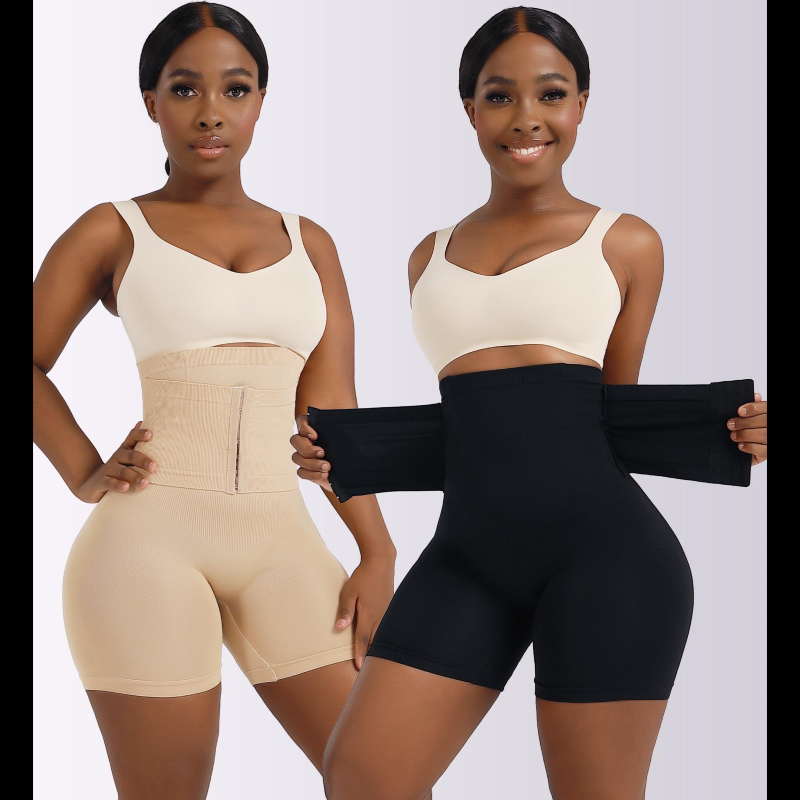
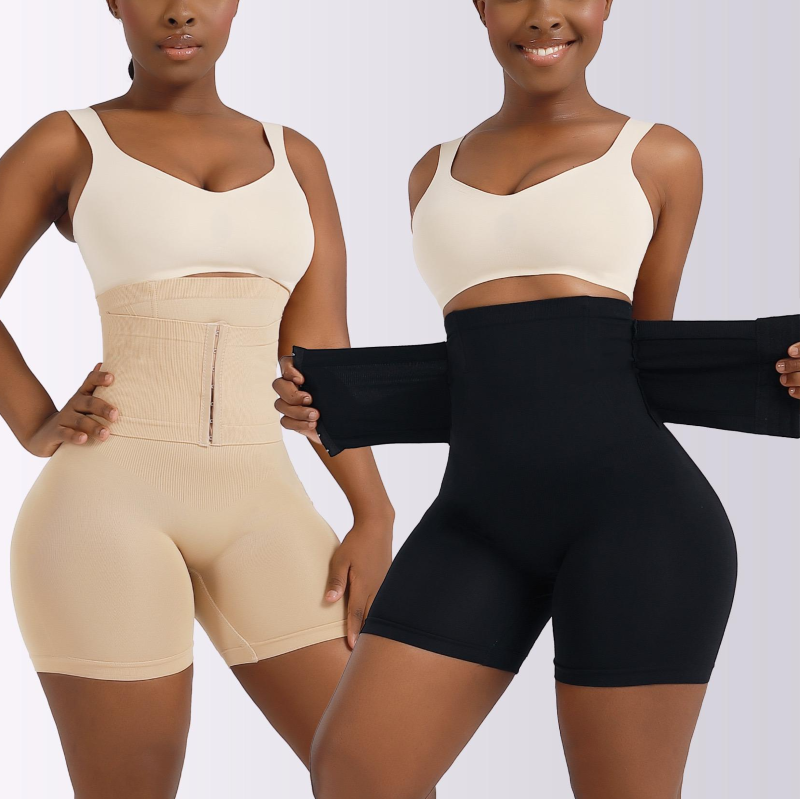
Refactor code structure for improved readability and maintainability
updated pictures for product details

diff --git a/assets/js/products.js b/assets/js/products.js
@@ -4,7 +4,7 @@ const products = [
     name: "silicon Bra",
     price: 6500.0,
     description: "Strapless bra for your comfort and confidence",
-    images: ["/assets/img/silicon_bra.webp"],
+    images: ["/assets/img/silicon_bra.webp", "/assets/img/silicon_bra_2.jpg"],
     colors: ["black"],
     sizeLimits: { min: 6, max: 16 },
     category: "bra",
@@ -66,10 +66,10 @@ const products = [
     price: 25000.0,
     description: "Lorem ipsum var deux vox machina.",
     images: [
-      "/assets/img/full_gym_wear_1.jpg",
-      "/assets/img/full_gym_wear_2.jpg",
+      "/assets/img/full_gym_wear_1.webp",
+      "/assets/img/full_gym_wear_2.webp",
       "/assets/img/full_gym_wear_3.jpg",
-      "/assets/img/full_gym_wear_4.jpg",
+      "/assets/img/full_gym_wear_4.webp",
     ],
     colors: ["black", "pink", "green", "blue"],
     sizeLimits: { min: 6, max: 18 },
@@ -141,7 +141,7 @@ const products = [
       "/assets/img/3_pcs_mesh_nightgown_2.jpg",
       "/assets/img/3_pcs_mesh_nightgown_4.jpg",
     ],
-    colors: ["grey", "maroon", "pink", "red"],
+    colors: ["grey", "maroon", "pink", "red", "white"],
     sizeLimits: { min: 6, max: 16 },
     category: "night_wear",
   },
@@ -150,7 +150,11 @@ const products = [
     name: "Thong Shaper",
     price: 11000.0,
     description: "Lorem ipsum var deux vox machina.",
-    images: ["/assets/img/thong_shaper_1.jpg"],
+    images: [
+      "/assets/img/thong_shaper_1.jpg",
+      "/assets/img/thong_shaper_2.jpg",
+      "/assets/img/thong_shaper_3.jpg",
+    ],
     colors: ["black"],
     sizeLimits: { min: 6, max: 12 },
     category: "body_shaper",
@@ -218,6 +222,8 @@ const products = [
     images: [
       "/assets/img/high_waist_girdle_4.webp",
       "/assets/img/high_waist_girdle_3.jpg",
+      "/assets/img/high_waist_girdle_1.jpg",
+      "/assets/img/high_waist_girdle_2.webp",
     ],
     colors: ["black"],
     sizeLimits: { min: 10, max: 16 },
@@ -266,5 +272,15 @@ const products = [
     colors: ["black", "red", "pink"],
     sizeLimits: { min: 0, max: 0 },
     category: "tights",
+  },
+  {
+    id: 23,
+    name: "Plunge Bra",
+    price: 12000.0,
+    description: "Lorem ipsum var deux vox machina.",
+    images: ["/", "/assets/img/plungebra_2.jpg"],
+    colors: ["black", "red", "pink"],
+    sizeLimits: { min: 6, max: 14 },
+    category: "bra",
   },
 ];

diff --git a/shop.html b/shop.html
@@ -89,6 +89,18 @@
                 </button>
               </div>
             </div>
+            <div class="tile" onclick="goToProduct(23)">
+              <img src="assets/img/silicon_bra.webp" alt="Plunge Bra" />
+              <div class="tile_txt">
+                <div class="tile_npr">
+                  <p>Plunge Bra</p>
+                  <p class="price">&#8358;12,000.00</p>
+                </div>
+                <button class="add-to-cart">
+                  <i class="ri-shopping-bag-2-line"></i>
+                </button>
+              </div>
+            </div>
           </div>
         </section>
 
